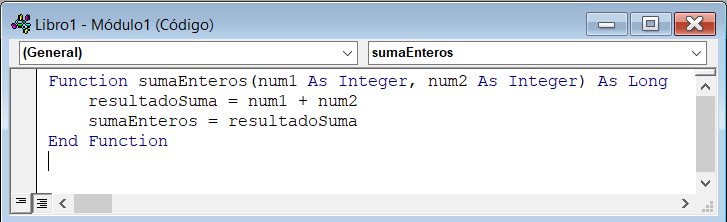
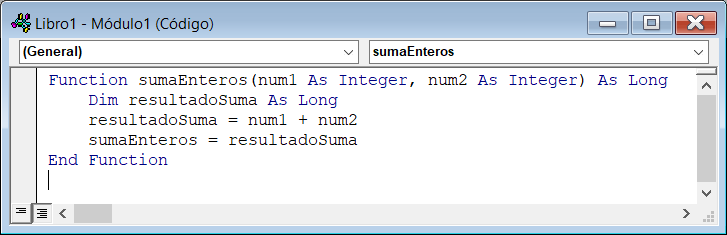
Mejorados menus, agregado ejercicio a funciones

diff --git a/src/components/Units/Unit4/Uni4Topics/1Teoría.js b/src/components/Units/Unit4/Uni4Topics/1Teoría.js
@@ -1,14 +1,12 @@
 import React from 'react';
-import MenuTopicsUnit4 from '../MenuTopics/Topics/MenuTopicsUnit4';
-import './units.css';
+import '../../units.css';
 
-const Unit4 = () => {
+const Teoria = () => {
     return (
-        <>
-        <div className='unit'>
-            <div className='unit-title'>
+        <div id='u4-teoria'>
+            <div className='unit-subtitle'>
                 <label>
-                    Unidad 4: Funciones
+                    Teoría
                 </label>
             </div>
             <div className='unit-content'>
@@ -17,16 +15,16 @@ const Unit4 = () => {
                 trabajo del usuario, así como <i>=promedio()</i>, <i>=buscarv()</i>, <i>=redondear()</i>, entre otras.
                 </p> 
                 <p>
-                Estas funciones están construidas con VBA, por lo que manejando este lenguaje es posible crear funciones desde cero,
-                con un nombre personalizado, parámetros deseados y un proposito propio. Para crearlas se utilizará
-                el procedimiento Function, el cual tiene una sintaxis similar a Sub.
+                Estas funciones están construidas con VBA, por lo que manejando este lenguaje es posible crear funciones propias desde cero,
+                con un nombre personalizado y parámetros deseados. Para crearlas se debe trabajar en un módulo (al igual que con las macros)
+                y se utilizará el procedimiento Function, el cual tiene una sintaxis similar a Sub.
                 </p>
                 <div className="unit-image">
-                    <img src={"./images/SintaxisFunction.png"} className='unit-image' alt="Sintáxis del procedimiento Function"/>
+                    <img src={"/images/SintaxisFunction.png"} className='unit-image' alt="Sintáxis del procedimiento Function"/>
                 </div>
                 <p>
                 Se inicia con la palabra reservada <b style={{color:'red'}}>Function</b>, continuando se ingresa el <b style={{color:'blue'}}>nombre</b> que se le dará a la función.
-                Dentro de los paréntesis se ingresan los parámetros de la función, que pueden ser 1, 2 o más. Es importante
+                Este nombre sigue las mismas reglas que los nombres de las variables y subrutinas. Dentro de los paréntesis se ingresan los parámetros de la función, que pueden ser 1, 2 o más. Es importante
                 especificar que tipo de dato es cada parametro, es por esto que junto a cada uno ingresado se escribe la palabra
                 reservada <b style={{color:'red'}}>as</b> junto con el tipo de dato que le corresponde al parámetro (Integer, String, etc.). Posterior a los
                 parentesis se debe especificar el <b style={{color:'green'}}>tipo de dato del retorno</b> de la función, el cual corresponde al valor que entregará
@@ -41,13 +39,18 @@ const Unit4 = () => {
                 retorna un valor de tipo Long.
                 </p>
                 <div className="unit-image2">
-                    <img src={"./images/FunctionSuma.png"} className='unit-image' alt="Ejemplo de una Function"/>
+                    <img src={"/images/FunctionSuma.png"} className='unit-image' alt="Ejemplo de una Function"/>
                 </div>
+                <p>
+                Dentro de la función se crea la variable <i>resultadoSuma</i>, donde se almacena el resultado del procedimiento, por lo que
+                su tipo coincide con el especificado en el encabezado de la función. Posteriormente se realiza el calculo y el resultado
+                es almacenado en una variable de mismo nombre que la función. Esta última variable no es necesario crearla por medio de <i>Dim</i>
+                </p>
                 <p>
                 Finalizada ya la función, es posible usarla de la misma forma que las funciones predefinidas de Excel
                 </p>
                 <div className="unit-image3">
-                    <img src={"./images/FunctionEjemplo.png"} className='unit-image' alt="Modo de uso de Functions"/>
+                    <img src={"/images/FunctionEjemplo.png"} className='unit-image' alt="Modo de uso de Functions"/>
                 </div>
                 <p>
                 Las referencias estudiadas en la Unidad 1 funcionan perfectamente con las funciones creadas y, así como en la hoja de cálculo, también se pueden utilizar la funciones creadas dentro de una subrutina. La lógica
@@ -55,7 +58,7 @@ const Unit4 = () => {
                 al utilizar la función en código.
                 </p>
                 <div className="unit-image2">
-                    <img src={"./images/FunctionEnSub.png"} className='unit-image' alt="Modo de uso de Functions en subrutinas"/>
+                    <img src={"/images/FunctionEnSub.png"} className='unit-image' alt="Modo de uso de Functions en subrutinas"/>
                 </div>
                 <p>
                 Como se puede observar, en la subrutina <i>sumar</i> se está haciendo uso de la función <i>sumaEnteros</i>, para
@@ -68,9 +71,7 @@ const Unit4 = () => {
                 </p>
             </div>
         </div>
-        <MenuTopicsUnit4/>
-        </>
     );
 }
 
-export default Unit4;
+export default Teoria;

diff --git a/src/components/MenuTopics/Topics/MenuTopicsUnit1.js b/src/components/MenuTopics/Topics/MenuTopicsUnit1.js
@@ -2,6 +2,8 @@ import React from 'react';
 import '../menutopics.css';
 
 const MenuTopicsUnit1 = () => {
+    const url = window.location.pathname;
+
     return (   
         <div className='topics'>
             <div style={{display: 'flex', flexDirection: 'row', alignItems: 'center'}}>
@@ -15,37 +17,37 @@ const MenuTopicsUnit1 = () => {
             </div>
             <ul className='menutopics-list'>
                 <li>
-                    <a href="/unidad1/conceptos-basicos" className='menu-list-item'>Conceptos básicos</a>
+                    <a href="/unidad1/conceptos-basicos" className={url.includes("conceptos-basicos") ? "menu-list-item bold" : "menu-list-item"}>Conceptos básicos</a>
                 </li>
                 <li>
-                    <a href="/unidad1/formulas" className='menu-list-item'>Fórmulas</a>
+                    <a href="/unidad1/formulas" className={url.includes("formulas") ? "menu-list-item bold" : "menu-list-item"}>Fórmulas</a>
                 </li>
                 <li>
-                    <a href="/unidad1/referencias" className='menu-list-item'>Referencias</a>
+                    <a href="/unidad1/referencias" className={url.includes("referencias") ? "menu-list-item bold" : "menu-list-item"}>Referencias</a>
                 </li>
                 <li>
-                    <a href="/unidad1/funciones" className='menu-list-item'>Funciones</a>
+                    <a href="/unidad1/funciones" className={url.includes("funciones") ? "menu-list-item bold" : "menu-list-item"}>Funciones</a>
                 </li>
                 <li>
-                    <a href="/unidad1/formato-condicional" className='menu-list-item'>Formato condicional</a>
+                    <a href="/unidad1/formato-condicional" className={url.includes("condicional") ? "menu-list-item bold" : "menu-list-item"}>Formato condicional</a>
                 </li>
                 <li>
-                    <a href="/unidad1/validacion-datos" className='menu-list-item'>Validación de datos</a>
+                    <a href="/unidad1/validacion-datos" className={url.includes("validacion") ? "menu-list-item bold" : "menu-list-item"}>Validación de datos</a>
                 </li>
                 <li>
-                    <a href="/unidad1/archivos-csv" className='menu-list-item'>Archivos CSV</a>
+                    <a href="/unidad1/archivos-csv" className={url.includes("archivos") ? "menu-list-item bold" : "menu-list-item"}>Archivos CSV</a>
                 </li>
                 <li>
-                    <a href="/unidad1/formato-tabla" className='menu-list-item'>Formato Tabla</a>
+                    <a href="/unidad1/formato-tabla" className={url.includes("formato-tabla") ? "menu-list-item bold" : "menu-list-item"}>Formato Tabla</a>
                 </li>
                 <li>
-                    <a href="/unidad1/filtros" className='menu-list-item'>Filtros</a>
+                    <a href="/unidad1/filtros" className={url.includes("filtros") ? "menu-list-item bold" : "menu-list-item"}>Filtros</a>
                 </li>
                 <li>
-                    <a href="/unidad1/tablas-dinamicas" className='menu-list-item'>Tablas Dinámicas</a>
+                    <a href="/unidad1/tablas-dinamicas" className={url.includes("tablas-dinamicas") ? "menu-list-item bold" : "menu-list-item"}>Tablas Dinámicas</a>
                 </li>
                 <li>
-                    <a href="/unidad1/ejercicios" className='menu-list-item'>Ejercicios</a>
+                    <a href="/unidad1/ejercicios" className={url.includes("ejercicios") ? "menu-list-item bold" : "menu-list-item"}>Ejercicios</a>
                 </li>
             </ul>
         </div>

diff --git a/src/components/Units/Unit4/Uni4Topics/Unit4Exercises/U4E-Funciones.js b/src/components/Units/Unit4/Uni4Topics/Unit4Exercises/U4E-Funciones.js
@@ -1,0 +1,75 @@
+import React from 'react';
+import Radio from '@mui/material/Radio';
+import RadioGroup from '@mui/material/RadioGroup';
+import FormControlLabel from '@mui/material/FormControlLabel';
+import FormControl from '@mui/material/FormControl';
+import FormHelperText from '@mui/material/FormHelperText';
+import Button from '@mui/material/Button';
+import '../../../units.css';
+
+const EjFunciones = () => {
+    const [Answer1, setAnswer1] = React.useState('');
+    const [error1, setError1] = React.useState(false);
+    const [helperText1, setHelperText1] = React.useState(' ');
+
+    const handleRadioChange1 = (event) => {
+        setAnswer1(event.target.value);
+        setHelperText1(' ');
+        setError1(false);
+    };
+
+    const handleSubmit1 = (event) => {
+        event.preventDefault();
+        if (Answer1 === 'B') {
+        setHelperText1('¡Correcto!');
+        setError1(false);
+        } else if (Answer1 === '') {
+        setHelperText1('Por favor, selecciona una opción.');
+        setError1(true);
+        } else {
+        setHelperText1('Explicación de solución correcta en construcción.');
+        setError1(true);
+        }
+    };
+
+    return(
+        <>
+            <div className='unit-subtitle'>
+                <label>
+                    Ejercicios Funciones
+                </label>
+            </div>
+            <div className='unit-content'>
+                <p>
+                    1) Considerando la función <i>Misterio</i> desarrollada en la imagen. ¿Cuál de estas afirmaciones es correcta?
+                </p>
+                <div className='unit-exercise'>
+                    <form onSubmit={handleSubmit1} className="unit-exercise-answers">
+                        <FormControl error={error1} variant="standard">
+                            <RadioGroup
+                                aria-labelledby="demo-error-radios"
+                                name="quiz1"
+                                value={Answer1}
+                                onChange={handleRadioChange1}
+                            >
+                            <FormControlLabel value="A" control={<Radio />} className="unit-excercise-answer" label="" />
+                            <FormControlLabel value="B" control={<Radio />} className="unit-excercise-answer" label="" />
+                            <FormControlLabel value="C" control={<Radio />} className="unit-excercise-answer" label="" />
+                            <FormControlLabel value="D" control={<Radio />} className="unit-excercise-answer" label="" />
+                            </RadioGroup>
+                            <Button className='unit-exercise-button' type="submit" variant="outlined">
+                            Enviar Respuesta
+                            </Button>
+                            <FormHelperText>{helperText1}</FormHelperText>
+                        </FormControl>
+                    </form>
+                    <div className="unit-exercise-image">
+                        <img src={"/images/FuncionesEjercicio1.png"} className='unit-image' alt="Funciones Ejercicio 1"/>
+                    </div>
+                </div>
+            </div>
+        </>
+    );
+}
+
+export default EjFunciones;

diff --git a/src/components/MenuTopics/Menu.js b/src/components/MenuTopics/Menu.js
@@ -2,6 +2,8 @@ import React from 'react';
 import './menutopics.css'
 
 const Menu = () => {
+    const url = window.location.pathname;
+
     return (
         <div className='menu'>
             <div style={{display: 'flex', flexDirection: 'row', alignItems: 'center'}}>
@@ -18,16 +20,16 @@ const Menu = () => {
                     <a href="/" className='menu-list-item'>Inicio</a>
                 </li>
                 <li>
-                    <a href="/unidad1/conceptos-basicos" className='menu-list-item'>Unidad 1: Excel</a>
+                    <a href="/unidad1/conceptos-basicos" className={url.includes("unidad1") ? "menu-list-item bold" : "menu-list-item"}>Unidad 1: Excel</a>
                 </li>
                 <li>
-                    <a href="/unidad3" className='menu-list-item'>Unidad 3: Macros</a>
+                    <a href="/unidad3" className={url.includes("unidad3") ? "menu-list-item bold" : "menu-list-item"}>Unidad 3: Macros</a>
                 </li>
                 <li>
-                    <a href="/unidad4" className='menu-list-item'>Unidad 4: Funciones</a>
+                    <a href="/unidad4/teoria" className={url.includes("unidad4") ? "menu-list-item bold" : "menu-list-item"}>Unidad 4: Funciones</a>
                 </li>
                 <li>
-                    <a href="/unidad5" className='menu-list-item'>Unidad 5: Formularios</a>
+                    <a href="/unidad5" className={url.includes("unidad5") ? "menu-list-item bold" : "menu-list-item"}>Unidad 5: Formularios</a>
                 </li>
             </ul>
         </div>

diff --git a/src/components/MenuTopics/Topics/MenuTopicsUnit4.js b/src/components/MenuTopics/Topics/MenuTopicsUnit4.js
@@ -2,6 +2,8 @@ import React from 'react';
 import '../menutopics.css';
 
 const MenuTopicsUnit4 = () => {
+    const url = window.location.pathname;
+    
     return (   
         <div className='topics'>
             <div style={{display: 'flex', flexDirection: 'row', alignItems: 'center'}}>
@@ -15,7 +17,10 @@ const MenuTopicsUnit4 = () => {
             </div>
             <ul className='menutopics-list'>
                 <li>
-                    En Construcción...
+                    <a href="/unidad4/teoria" className={url.includes("teoria") ? "menu-list-item bold" : "menu-list-item"}>Teoría</a>
+                </li>
+                <li>
+                    <a href="/unidad4/ejercicios" className={url.includes("ejercicios") ? "menu-list-item bold" : "menu-list-item"}>Ejercicios</a>
                 </li>
             </ul>
         </div>

diff --git a/src/components/Units/Unit4/Unit4.js b/src/components/Units/Unit4/Unit4.js
@@ -1,0 +1,27 @@
+import React from 'react';
+import { Routes, Route } from "react-router-dom";
+import Teoria from './Uni4Topics/1Teoría';
+import Ejercicios from './Uni4Topics/2Ejercicios';
+import MenuTopicsUnit4 from '../../MenuTopics/Topics/MenuTopicsUnit4';
+import '../units.css';
+
+const Unit4 = () => {
+    return (
+        <>
+        <div className='unit'>
+            <div className='unit-title'>
+                <label>
+                    Unidad 4: Funciones
+                </label>
+            </div>
+            <Routes>
+                <Route path="teoria" element={<Teoria/>} />
+                <Route path="ejercicios" element={<Ejercicios/>} />
+            </Routes>
+        </div>
+        <MenuTopicsUnit4/>
+        </>
+    );
+}
+
+export default Unit4;

diff --git a/src/components/Units/Unit1/Unit1Topics/Unit1Exercises/U1E-Referencias.js b/src/components/Units/Unit1/Unit1Topics/Unit1Exercises/U1E-Referencias.js
@@ -1,11 +1,9 @@
 import React from 'react';
-import Input from '@mui/material/Input';
 import Radio from '@mui/material/Radio';
 import RadioGroup from '@mui/material/RadioGroup';
 import FormControlLabel from '@mui/material/FormControlLabel';
 import FormControl from '@mui/material/FormControl';
 import FormHelperText from '@mui/material/FormHelperText';
-import FormLabel from '@mui/material/FormLabel';
 import Button from '@mui/material/Button';
 import '../../../units.css';
 
@@ -79,7 +77,7 @@ const EjReferencias = () => {
         <>
             <div className='unit-subtitle'>
                 <label>
-                    Referencias
+                    Ejercicios Referencias
                 </label>
             </div>
             <div className='unit-content'>

diff --git a/src/App.js b/src/App.js
@@ -1,6 +1,7 @@
 import ScrollToTop from './components/ScrollToTop';
 import Header from './components/HeaderFooter/Header';
 import Body from './components/Body/Body';
+import Footer from './components/HeaderFooter/Footer';
 import './App.css';
 
 function App() {
@@ -9,8 +10,8 @@ function App() {
       <ScrollToTop/>
       <Header/>
       <Body/>
+      {/*<Footer/>*/}
     </>
-
   );
 }
 

diff --git a/src/components/Body/Body.js b/src/components/Body/Body.js
@@ -4,7 +4,7 @@ import Menu from '../MenuTopics/Menu';
 import Home from '../Units/Home';
 import Unit1 from '../Units/Unit1/Unit1';
 import Unit3 from '../Units/Unit3';
-import Unit4 from '../Units/Unit4';
+import Unit4 from '../Units/Unit4/Unit4';
 import Unit5 from '../Units/Unit5';
 import "./body.css";
 

diff --git a/src/components/HeaderFooter/headerfooter.css b/src/components/HeaderFooter/headerfooter.css
@@ -31,3 +31,11 @@
     padding: 0 1rem;
     font-size: 1.2rem;
 }
+
+.footer{
+    position: relative;
+    height: 4rem;
+    background-color: hsla(231, 48%, 48%, 1);
+    color: hsla(0, 0%, 100%, 1);
+    font-family: "Roboto",-apple-system,BlinkMacSystemFont,Helvetica,Arial,sans-serif;
+}

diff --git a/src/components/HeaderFooter/Footer.js b/src/components/HeaderFooter/Footer.js
@@ -1,0 +1,14 @@
+import React from 'react';
+import './headerfooter.css';
+
+const Footer = () => {
+    return (
+        <div className='footer'>
+            <div className='footer-container'>
+               
+            </div>
+        </div>
+    );
+}
+
+export default Footer;

diff --git a/src/components/Units/Unit4/Uni4Topics/2Ejercicios.js b/src/components/Units/Unit4/Uni4Topics/2Ejercicios.js
@@ -1,0 +1,13 @@
+import React from 'react';
+import EjFunciones from './Unit4Exercises/U4E-Funciones';
+import '../../units.css';
+
+const Ejercicios = () => {
+    return (
+        <>
+            <EjFunciones/>
+        </>
+    );
+}
+
+export default Ejercicios;
